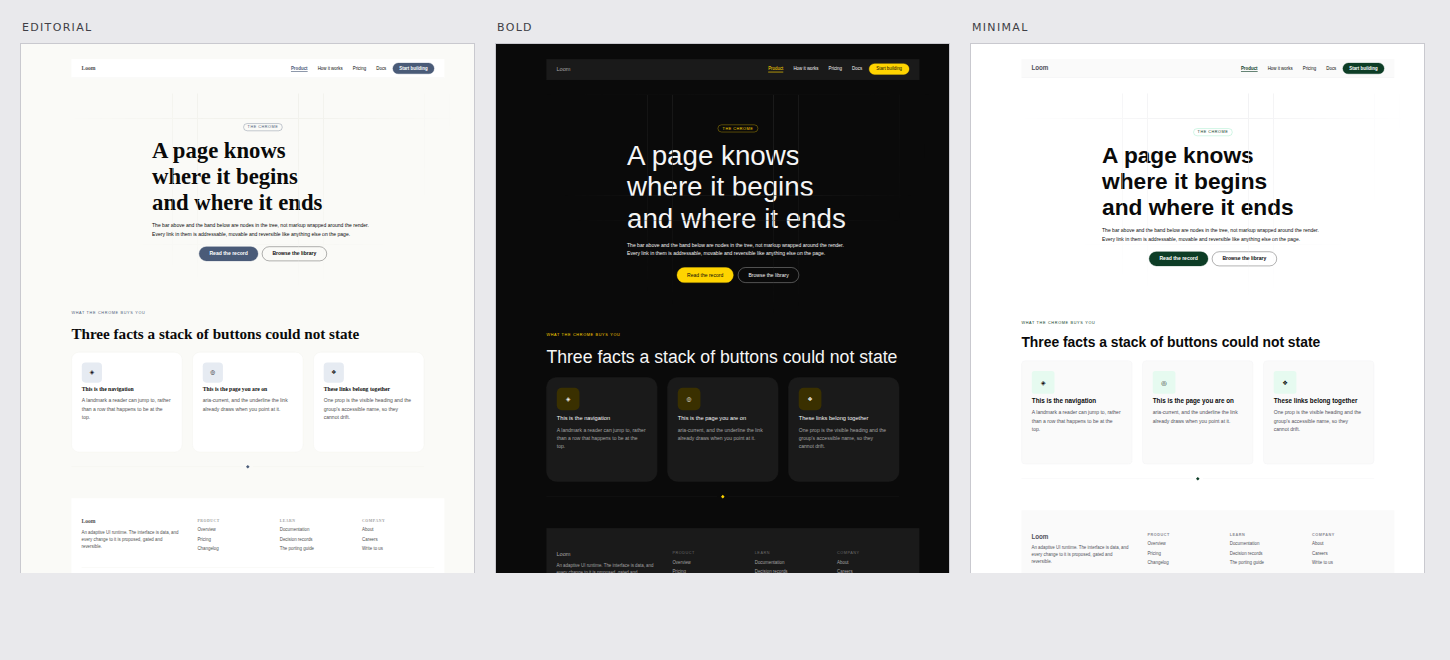
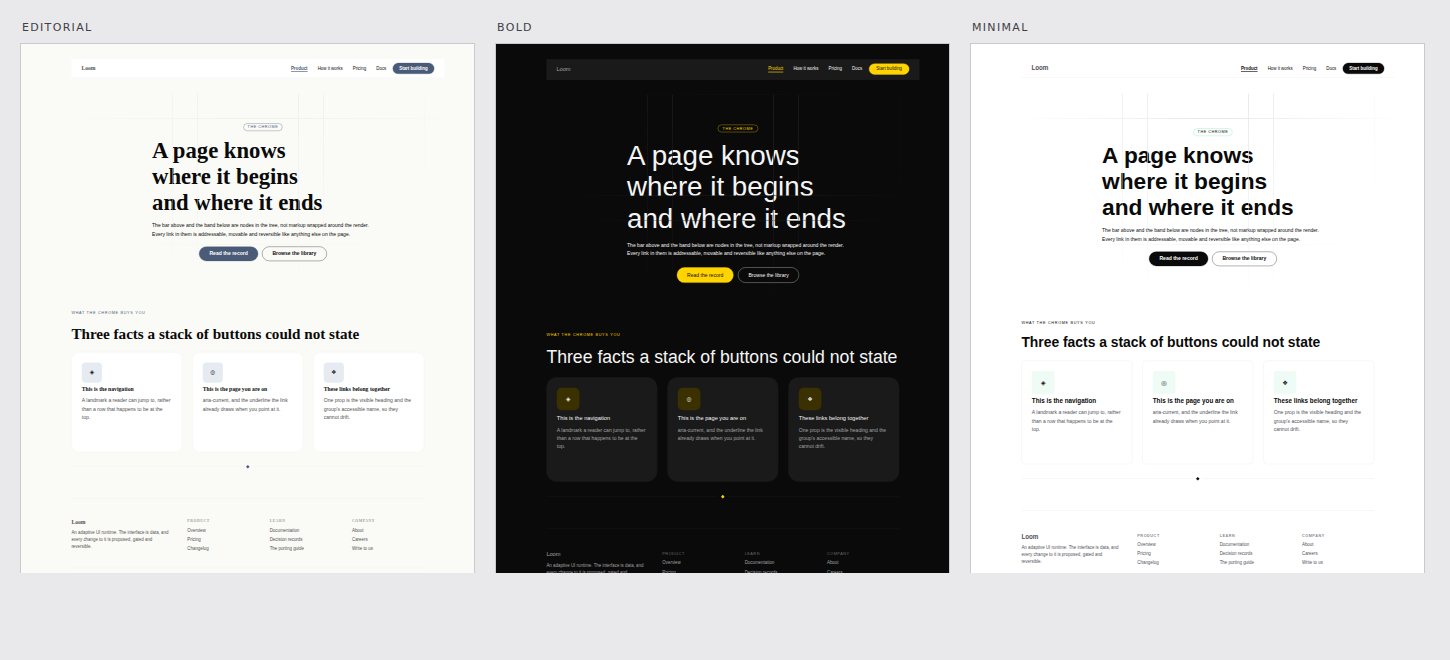
theme: black button, outlined components — the review's two changes
Two corrections from review, both in the palette and neither touching a
primitive.

`accent` was Hyperion's deep stop #0d3d26 on the reasoning that a
near-black button with a green cast was the restrained reading. Rendered,
it was "that dark hunter green black" — too dark to read as green, too
green to read as black. Every contrast number was fine; the colour was
muddy, which is the failure a table cannot show you. Black is what the
brief said in the first place: whites, black, and the green as a
highlight. A green button is not a highlight, it is the loudest thing on
the page. accent-strong moved to a mid stop #176e44 so the glyph on a
tinted tile is visibly green rather than maximally contrasted.

The trade is stated in the report: loom.link's `current` reads `accent`,
so the current page is now marked in black rather than green. The two
cannot differ while they are the same slot.

Outlined-over-filled is one slot. bg-surface is the fill behind every
card, nav, footer, hero panel and surface section, so setting it to the
canvas white makes all of them border-defined at once. border-subtle
became load-bearing and moved a step darker to compensate.
bg-surface-muted deliberately stays a real fill: nine primitives read it
for image wells and monograms, and a placeholder the colour of the page
is invisible.

Both decisions are now assertions rather than comments.

pnpm verify green: 1407 runtime / 758 app.

Claude-Session: https://claude.ai/code/session_01PuLt7T7Grra7auS3vnyqoD

diff --git a/src/theme/library.ts b/src/theme/library.ts
@@ -149,21 +149,48 @@ export const airyModernStylePreset: StylePreset = stylePresetSchema.parse({
  * featured tier's border are exactly the "subtle highlight" the brief asks for
  * and where 1.58:1 is a soft mark rather than a failure.
  *
- * `accent` takes the deep stop, so a primary action reads as a near-black
- * button with a green cast — the restraint the palette is for — and a 12px
- * eyebrow reads at 12.26:1. The green is *legible as green* where there is area
- * to see it, and quiet everywhere else. That is the difference between a
- * minimalist palette and a desaturated one.
+ * **`accent` is black, and that is the maintainer's call after seeing it green.**
+ * The first cut gave it the deep stop, `#0d3d26`, on the reasoning that a
+ * near-black button with a green cast was the restrained reading. Rendered, it
+ * was neither: too dark to read as green and too green to read as black — the
+ * review called it "dark hunter green black", which is exactly what it looked
+ * like. The brief names three colours, whites, black *and* green, and a black
+ * button is the one that leaves the green to be a highlight rather than the
+ * largest element on the page.
+ *
+ * So the green now lives entirely in the places a highlight belongs:
+ * `border-accent` for hairlines and rings, `accent-subtle` for a tinted tile,
+ * and `accent-strong` — a mid stop rather than the darkest — for the glyph or
+ * label sitting on that tile, where being *visibly* green matters more than
+ * maximising contrast it already has in hand at 5.91:1.
  */
 export const minimalPalette: Palette = paletteSchema.parse({
   id: "minimal",
   name: "Minimal",
   description:
-    "White paper, black ink, one green. Shades of white for surfaces, near-black text, and a green accent used sparingly.",
+    "White paper, black ink, one green. Components are outlined rather than filled; the green appears only as rules, rings and tinted marks.",
   slots: {
-    /** Four whites: the page, the surfaces on it, a recessed well, and an overlay. */
+    /**
+     * **`bg-surface` is the canvas white, and that is the whole outline-first
+     * decision.** It is the fill behind a card, a nav, a footer, a hero panel
+     * and a `tone: "surface"` section — so setting it to the page colour means
+     * every one of those is defined by its border instead of by a change of
+     * background, without a single primitive being touched. The instruction was
+     * to prefer outlined components and use fills sparingly; this is the one
+     * slot that turns the entire library over.
+     *
+     * It also means `border-subtle` is now load-bearing rather than decorative,
+     * which is why it is a step darker here than the palettes that back their
+     * borders with a fill.
+     */
     "bg-canvas": "#ffffff",
-    "bg-surface": "#fafafa",
+    "bg-surface": "#ffffff",
+    /**
+     * The one fill left, and it stays a real one because it is *functional*
+     * rather than structural: the well behind an image that has not loaded, a
+     * person's monogram, a neutral badge. Nine primitives read it, and a
+     * placeholder the same colour as the page is a placeholder nobody can see.
+     */
     "bg-surface-muted": "#f4f4f5",
     "bg-overlay": "#ffffff",
     /** Never pure black. #000 on #fff is a glare a printed page never produces. */
@@ -171,15 +198,17 @@ export const minimalPalette: Palette = paletteSchema.parse({
     "fg-muted": "#52525b",
     "fg-subtle": "#8a8a94",
     "fg-on-accent": "#ffffff",
-    /** Hyperion's `--btn-positive-text`, exactly. 12.26:1 on the canvas. */
-    accent: "#0d3d26",
-    "accent-strong": "#082819",
-    "accent-subtle": "#e6faf0",
+    /** Black, so the green is a highlight and not the biggest thing on the page. */
+    accent: "#0a0a0a",
+    /** A mid stop on Hyperion's ramp: the glyph on a tinted tile, visibly green at 5.91:1. */
+    "accent-strong": "#176e44",
+    "accent-subtle": "#effbf5",
     "brand-secondary": "#72e3ad",
     "brand-secondary-strong": "#1f985e",
-    "border-default": "#e4e4e7",
+    /** Carrying structure now, so a step darker than a fill-backed palette needs. */
+    "border-default": "#d4d4d9",
     "border-strong": "#0a0a0a",
-    "border-subtle": "#efeff1",
+    "border-subtle": "#e6e6ea",
     /** Hyperion's `--btn-positive-bg`, exactly. The green you actually see. */
     "border-accent": "#72e3ad",
   },

diff --git a/src/theme/theme.test.ts b/src/theme/theme.test.ts
@@ -163,21 +163,43 @@ describe("what the library reads against what", () => {
     }
   })
 
-  it("proves the pairing that decided where the house palette's green went", () => {
+  it("keeps the house palette's green out of the slot that is read as text", () => {
     /**
-     * `minimal` carries Hyperion's two greens at the two stops the library can
-     * actually use them at. The mint reads at 1.58:1 on white, so it is a border
-     * and never a letterform; the deep green reads at 12.26:1, so it is both the
-     * text and the fill. Asserted as the specific numbers because the swap is
-     * tempting and silent — it is the *obvious* assignment and it is the wrong one.
+     * The mint reads at 1.58:1 on white, so it can be a border and can never be
+     * a letterform. Asserted as the specific value because the swap is tempting
+     * and silent: `accent` paints the primary button, so putting the button
+     * colour there is the *obvious* move, and it takes every eyebrow, kicker and
+     * disclosure marker on the page down with it.
      */
     const minimal = STARTER_PALETTES.find((palette) => palette.id === "minimal")
     if (!minimal) throw new Error("minimal palette is not registered")
 
     expect(minimal.slots["border-accent"]).toBe("#72e3ad")
-    expect(minimal.slots.accent).toBe("#0d3d26")
     expect(contrast(minimal.slots["border-accent"] ?? "", minimal.slots["bg-canvas"] ?? "")).toBeLessThan(3)
-    expect(contrast(minimal.slots.accent ?? "", minimal.slots["bg-canvas"] ?? "")).toBeGreaterThan(7)
+    expect(minimal.slots.accent).not.toBe(minimal.slots["border-accent"])
+
+    /** The green still has to be visibly green where it does appear. */
+    expect(contrast(minimal.slots["accent-strong"] ?? "", minimal.slots["accent-subtle"] ?? "")).toBeGreaterThanOrEqual(4.5)
+  })
+
+  it("defines its components by their border rather than by a fill", () => {
+    /**
+     * The outline-first instruction, as the one assertion that can hold it.
+     * `bg-surface` is the fill behind a card, a nav, a footer and a hero panel,
+     * so `bg-surface === bg-canvas` is what makes all of them outlined — and it
+     * only works while `border-subtle` is actually visible, since it is now the
+     * only thing separating a card from the page.
+     *
+     * `bg-surface-muted` is deliberately *not* held to this. It is a functional
+     * fill — the well behind a missing image, a monogram — and a placeholder the
+     * colour of the page is a placeholder nobody can see.
+     */
+    const minimal = STARTER_PALETTES.find((palette) => palette.id === "minimal")
+    if (!minimal) throw new Error("minimal palette is not registered")
+
+    expect(minimal.slots["bg-surface"]).toBe(minimal.slots["bg-canvas"])
+    expect(contrast(minimal.slots["border-subtle"] ?? "", minimal.slots["bg-canvas"] ?? "")).toBeGreaterThan(1.15)
+    expect(minimal.slots["bg-surface-muted"]).not.toBe(minimal.slots["bg-canvas"])
   })
 
   /**

diff --git a/reports/2026-08-20-theme-the-minimal-theme.md b/reports/2026-08-20-theme-the-minimal-theme.md
@@ -70,10 +70,10 @@ So the assignment follows the *reading*, not the colour:
 
 | slot | value | why |
 | --- | --- | --- |
-| `accent` | `#0d3d26` — Hyperion's, exact | 12.26:1 on the canvas. Text and fill both |
-| `fg-on-accent` | `#ffffff` | 12.26:1 on the button |
-| `accent-strong` | `#082819` | text on the pale tint |
-| `accent-subtle` | `#e6faf0` | the tint behind an accent card, badge or icon tile |
+| `accent` | `#0a0a0a` | black. The primary button, and every accent letterform |
+| `fg-on-accent` | `#ffffff` | 19.8:1 on the button |
+| `accent-strong` | `#176e44` | a mid stop — the glyph on a tinted tile, visibly green at 5.91:1 |
+| `accent-subtle` | `#effbf5` | the whisper of mint behind a tile, badge or accent card |
 | `border-accent` | `#72e3ad` — Hyperion's, exact | **where the green you actually see lives** |
 
 `border-accent` is the eyebrow pill's ring, the quote's rule, the featured
@@ -81,29 +81,65 @@ tier's border, the badge outline. A 1px mint hairline at 1.58:1 is not a
 contrast failure — borders are not held to text contrast — it is exactly the
 phrase in the request: *subtle highlights of green*.
 
-And the deep stop earns the rest of it. A primary button in `#0d3d26` reads as a
-near-black button with a green cast, which is the restraint the theme is for,
-while a 12px eyebrow in it reads at 12.26:1. **The green is legible as green
-where there is area to see it and quiet everywhere else** — the difference
-between a minimalist palette and a merely desaturated one.
+## The revision, and why the first answer was wrong
 
-## The whites
+**`accent` was `#0d3d26` — Hyperion's deep stop — in the first cut, and it was
+sent back.** The reasoning had been that a near-black button with a green cast
+was the restrained reading, and that 12.26:1 kept a 12px eyebrow legible.
 
-Four, cool-neutral rather than warm, which is what the reference page uses and
-what `editorial` deliberately is not:
+Rendered, it was neither thing. The review called it *"that dark hunter green
+black"*, which is precisely what it looked like: too dark to read as green, too
+green to read as black. It is the failure mode a contrast table cannot show you —
+every number was fine, and the colour was muddy.
+
+Black is the correct answer and it was available from the start, in the brief's
+own words: *whites, **black**, and the subtle highlights of green*. Three
+colours, and the largest element on the page should be one of the first two. A
+green button is not a highlight — it is the loudest thing in the composition, and
+it spends the green where the brief said to be sparing with it.
+
+`accent-strong` moved with it, from `#082819` to `#176e44`. On a tinted tile the
+job of that slot is to be **visibly green**, not to maximise a contrast it
+already has in hand; 5.91:1 clears AA with room and actually looks like the
+colour it is meant to be.
+
+**What this costs, stated plainly.** `loom.link`'s `current` reads `accent`, so
+the current page in a nav is now marked in black — bold and underlined, but not
+coloured. Under the deep green it was the nicest small use of the accent on the
+page. That is the real trade in going black, and it is a trade rather than an
+oversight: the two cannot differ while both are the same slot.
+
+## The whites, and the one slot that made the library outline-first
+
+The second instruction on review was: **prefer outlined components to denote the
+boundary between one component and the next, and use different background fills
+sparingly.**
+
+That turned out to be a one-slot change, and it is the most useful thing in this
+palette. `bg-surface` is the fill behind a `loom.card`, a `loom.nav`, a
+`loom.footer`, a `loom.hero` panel and a `tone: "surface"` section — *every*
+component that reads as a filled box. Setting it to the canvas white makes all of
+them defined by their border instead, with no primitive touched and no authoring
+change required:
 
 ```
 bg-canvas        #ffffff   the page
-bg-surface       #fafafa   cards, nav, footer
-bg-surface-muted #f4f4f5   a recessed well
+bg-surface       #ffffff   ← the same white. Cards are outlines, not fills
+bg-surface-muted #f4f4f5   the one fill left, and it is functional
 bg-overlay       #ffffff   modals
-border-subtle    #efeff1   border-default #e4e4e7   border-strong #0a0a0a
+border-subtle    #e6e6ea   border-default #d4d4d9   border-strong #0a0a0a
 ```
 
-Note the inversion from `editorial`, which puts an off-white canvas under white
-surfaces. Here the canvas is the pure white and surfaces sit *slightly darker* on
-it. On a page whose cards already carry a hairline, that reads as paper with
-panels laid on it rather than as panels cut out of paper.
+Two consequences worth naming:
+
+- **`border-subtle` became load-bearing**, so it moved a step darker
+  (`#efeff1` → `#e6e6ea`). It is now the only thing separating a card from the
+  page; at the old value a card simply disappeared.
+- **`bg-surface-muted` deliberately stays a real fill.** Nine primitives read it
+  and every one is *functional* rather than structural — the well behind an image
+  that has not loaded, a person's monogram, a neutral badge. A placeholder the
+  colour of the page is a placeholder nobody can see. "Sparingly" is not "never",
+  and this is what the exception is for.
 
 `fg-default` is `#0a0a0a` and not `#000000`. Pure black on pure white is a glare
 no printed page produces.
@@ -161,6 +197,10 @@ fg-muted on bg-surface · accent on bg-canvas · accent on bg-surface
 fg-on-accent on accent · accent-strong on accent-subtle · fg-default on accent-subtle
 ```
 
+Two more assertions carry the review decisions so they cannot be undone by
+accident: that the mint never lands in `accent` (the slot read as text), and that
+`bg-surface === bg-canvas` with a `border-subtle` visible enough to replace it.
+
 All three palettes pass all nine. It is the check that would have caught the
 mint-at-`accent` mistake, and it now guards every palette anyone adds.
 
@@ -176,10 +216,10 @@ not this change's business. Filed.
 
 | Package | Files | Tests |
 | --- | --- | --- |
-| `@loom/runtime` | 97 | 1406 |
+| `@loom/runtime` | 97 | 1407 |
 | `@loom/app` | 74 | 758 |
 
-Runtime went 96 → 97 files and 1373 → 1406 tests: the contrast suite, the
+Runtime went 96 → 97 files and 1373 → 1407 tests: the contrast suite, the
 catalogue census widened to all three groups with descriptions checked on every
 entry, and two primitives-side tests that render **all seven fixtures** under the
 new theme and assert no literal colour survives below the root.
